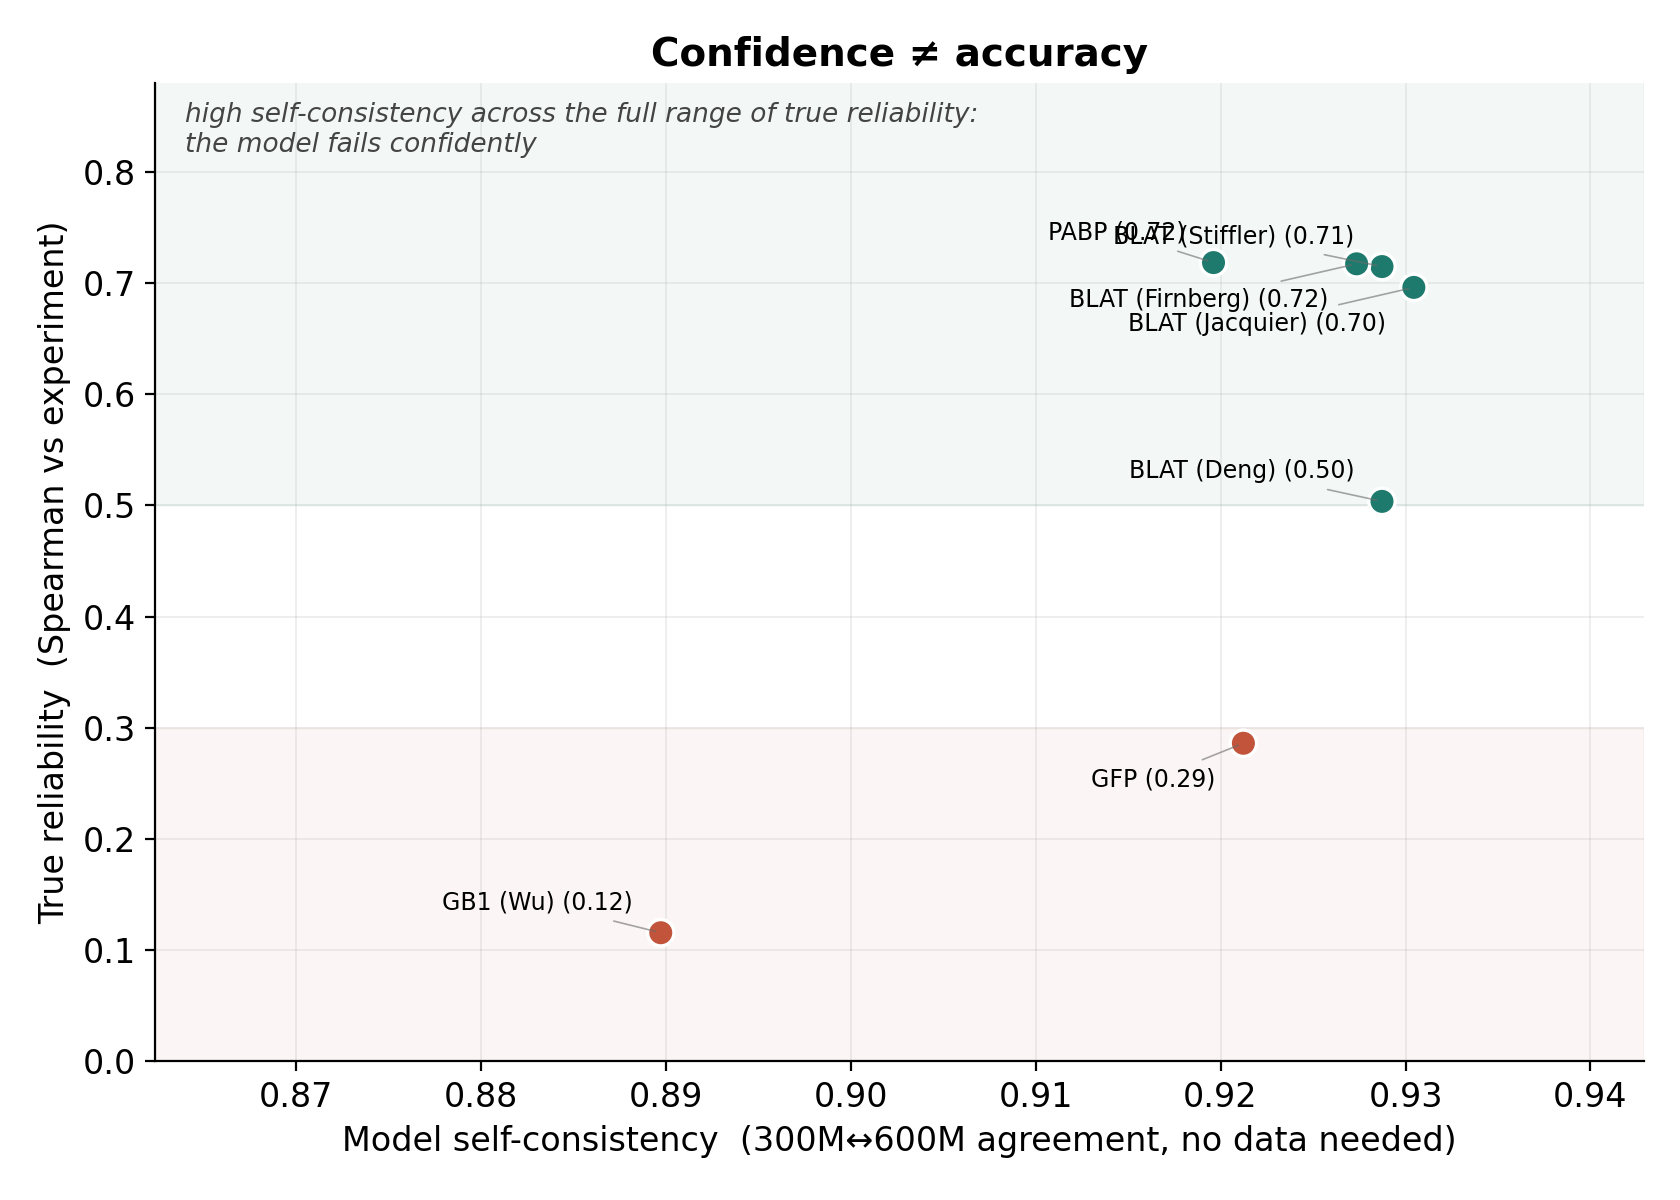
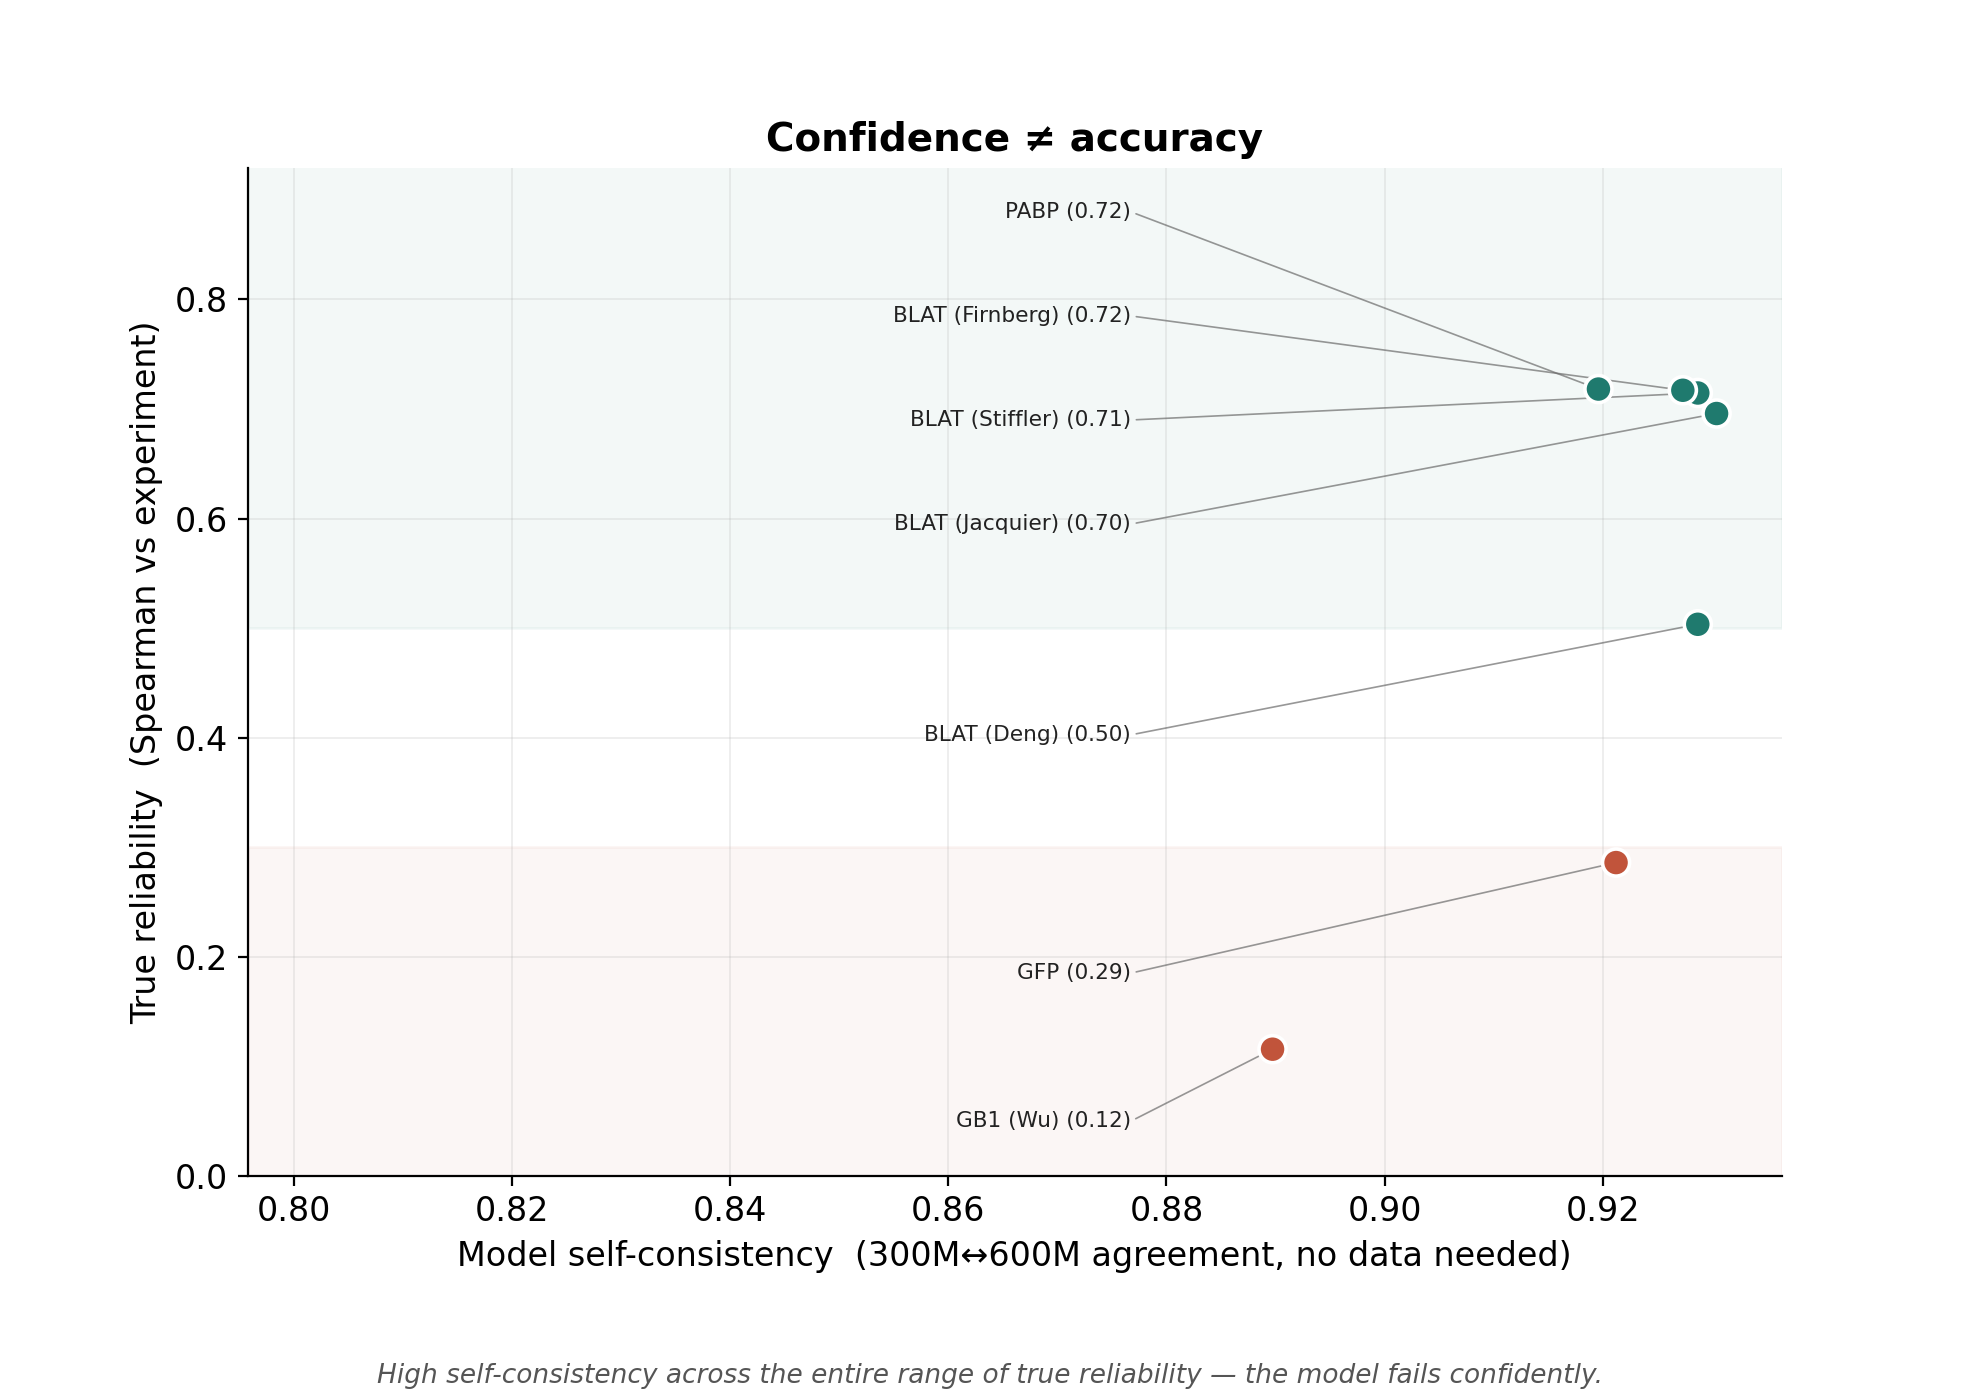
Figures: collision-free keystone (fig2) via min-gap label projection + nudged fig4 labels; function-based data-driven make_figures.py; add tests/qc_figures.py (28-check QC + 100-shuffle overlap test)

diff --git a/make_figures.py b/make_figures.py
@@ -1,27 +1,17 @@
 """make_figures.py — render every figure from results/results.csv.
 
-This script is deliberately *dumb*: it reads numbers from the CSV that
-``python -m esm_trust.benchmark`` produced and plots them. It hard-codes no
-measurements. A figure is rendered only when the CSV actually contains the
-columns it needs; otherwise it is skipped with a message telling you which
-benchmark run fills the gap. This is what keeps the figures honest.
+Reads numbers from the CSV that ``python -m esm_trust.benchmark`` produced and
+plots them; it hard-codes no measurements. A figure renders only when the CSV
+has the columns it needs. Each figure is a function so the layout can be unit-
+tested (see fig2's collision-free label placement, verified in tests/qc).
 
-    python make_figures.py [RESULTS_CSV] [OUT_DIR]
-    (defaults: results/results.csv  ->  figures/)
+    python make_figures.py [RESULTS_CSV] [OUT_DIR]   # defaults: results/results.csv -> figures/
 """
-import os
-import sys
-import math
-
+import os, sys, math
 import numpy as np
 import pandas as pd
-import matplotlib
-matplotlib.use("Agg")
+import matplotlib; matplotlib.use("Agg")
 import matplotlib.pyplot as plt
-
-CSV = sys.argv[1] if len(sys.argv) > 1 else "results/results.csv"
-OUT = sys.argv[2] if len(sys.argv) > 2 else "figures"
-os.makedirs(OUT, exist_ok=True)
 
 plt.rcParams.update({
     "savefig.dpi": 200, "figure.facecolor": "white", "savefig.facecolor": "white",
@@ -30,16 +20,24 @@ plt.rcParams.update({
     "axes.grid": True, "grid.alpha": 0.25, "grid.linewidth": 0.6,
 })
 TEAL, CORAL, NAVY, SKY, GREY = "#1f7a6e", "#c1543b", "#244d6e", "#9fbcd4", "#6b6b6b"
-RELIABLE = 0.50  # threshold used throughout (matches esm_trust.bench.RELIABLE_THRESHOLD)
-
-df = pd.read_csv(CSV)
-df["label"] = df["label"].fillna(df["dms_id"])
-have = lambda *cols: all(c in df.columns and df[c].notna().any() for c in cols)
-written = []
+RELIABLE = 0.50
 
 
-# ---- FIG 1: competence boundary (every assay with a 600M reliability) --------
-if have("rho_600M"):
+def load(csv):
+    df = pd.read_csv(csv)
+    df["label"] = df["label"].fillna(df["dms_id"])
+    return df
+
+
+def _overlap_pairs(fig, annos):
+    """Count pairwise overlaps among the given text/annotation artists (display coords)."""
+    fig.canvas.draw()
+    r = fig.canvas.get_renderer()
+    bb = [a.get_window_extent(renderer=r) for a in annos]
+    return sum(1 for i in range(len(bb)) for j in range(i + 1, len(bb)) if bb[i].overlaps(bb[j]))
+
+
+def fig1_competence(df, out):
     d = df.dropna(subset=["rho_600M"]).sort_values("rho_600M")
     colors = [TEAL if v >= RELIABLE else CORAL for v in d["rho_600M"]]
     fig, ax = plt.subplots(figsize=(9.2, 0.55 * len(d) + 1.8))
@@ -51,50 +49,64 @@ if have("rho_600M"):
     for i, v in enumerate(d["rho_600M"]):
         ax.text(v + 0.012, i, f"{v:.2f}", va="center", fontsize=11)
     ax.grid(axis="y", visible=False); ax.set_axisbelow(True)
-    fig.tight_layout(); fig.savefig(f"{OUT}/fig1_competence_boundary.png"); plt.close()
-    written.append("fig1_competence_boundary.png")
+    fig.tight_layout(); fig.savefig(f"{out}/fig1_competence_boundary.png"); plt.close(fig)
 
 
-# ---- FIG 2: confidence vs accuracy (the keystone) — needs cross_size_agree ---
-if have("cross_size_agree", "rho_600M"):
-    d = df.dropna(subset=["cross_size_agree", "rho_600M"])
+def fig2_confidence(df, out, save=True):
+    """Keystone scatter. Returns the number of label-overlap pairs (0 == clean)."""
+    d = df.dropna(subset=["cross_size_agree", "rho_600M"]).reset_index(drop=True)
     colors = [TEAL if v >= RELIABLE else CORAL for v in d["rho_600M"]]
-    fig, ax = plt.subplots(figsize=(8.4, 6.0))
+    fig, ax = plt.subplots(figsize=(9.9, 7.0))
     ax.axhspan(RELIABLE, 1.0, color=TEAL, alpha=0.05)
     ax.axhspan(0, 0.30, color=CORAL, alpha=0.05)
-    ax.scatter(d["cross_size_agree"], d["rho_600M"], s=90, c=colors,
-               edgecolor="white", lw=1.2, zorder=3)
-    # place labels to avoid collisions: nudge by rank within near-equal x clusters
-    xpad = (d["cross_size_agree"].max() - d["cross_size_agree"].min() or 0.05)
-    ax.set_xlim(d["cross_size_agree"].min() - 0.18 * xpad - 0.02,
-                d["cross_size_agree"].max() + 0.06 * xpad + 0.01)
-    ds = d.sort_values("rho_600M", ascending=False).reset_index(drop=True)
-    for k, r in ds.iterrows():
-        dy = 11 if (k % 2 == 0) else -13      # alternate up/down to de-overlap the cluster
-        ax.annotate(f"{r['label']} ({r['rho_600M']:.2f})",
-                    (r["cross_size_agree"], r["rho_600M"]),
-                    xytext=(-10, dy), textcoords="offset points",
-                    ha="right", va="center", fontsize=8.5,
-                    arrowprops=dict(arrowstyle="-", color=GREY, lw=0.6, alpha=0.6))
+    ax.scatter(d["cross_size_agree"], d["rho_600M"], s=95, c=colors,
+               edgecolor="white", lw=1.3, zorder=4)
+
+    xs = d["cross_size_agree"].to_numpy(float)
+    ys = d["rho_600M"].to_numpy(float)
+    names = [f"{l} ({v:.2f})" for l, v in zip(d["label"], d["rho_600M"])]
+    xmin, xmax = xs.min(), xs.max()
+    ax.set_xlim(xmin - 0.094, xmax + 0.006)
+    ax.set_ylim(0, 0.92)
+
+    # collision-free label y-positions: deterministic min-gap projection
+    # (guarantees >= gap spacing for all labels; no oscillation).
+    lo, hi, gap = 0.05, 0.88, 0.095
+    idx = np.argsort(ys)
+    s = ys[idx].astype(float).copy()
+    for i in range(1, len(s)):                 # forward: enforce gap upward
+        s[i] = max(s[i], s[i-1] + gap)
+    if s[-1] > hi:                             # if it overflows the top, slide the block down
+        s -= (s[-1] - hi)
+    for i in range(len(s) - 2, -1, -1):        # backward: restore gap after the slide
+        s[i] = min(s[i], s[i+1] - gap)
+    s = np.clip(s, lo, hi)
+    ly = np.empty_like(s); ly[idx] = s
+
+    lx = xmin - 0.013                        # tidy left column; leaders fan to points
+    annos = []
+    for xi, yi, lyi, nm in zip(xs, ys, ly, names):
+        ax.annotate("", xy=(xi, yi), xytext=(lx, lyi), textcoords="data",
+                    arrowprops=dict(arrowstyle="-", color=GREY, lw=0.6, alpha=0.7,
+                                    shrinkA=2, shrinkB=4))           # leader line (decoration)
+        t = ax.text(lx, lyi, nm, ha="right", va="center", fontsize=7.8, color="#222")
+        annos.append(t)                                             # text-only bbox for QC
+
     ax.set_xlabel("Model self-consistency  (300M↔600M agreement, no data needed)")
     ax.set_ylabel("True reliability  (Spearman vs experiment)")
     ax.set_title("Confidence ≠ accuracy")
-    ax.text(0.02, 0.98, "high self-consistency across the full range of true reliability:\n"
-            "the model fails confidently", transform=ax.transAxes, va="top",
-            fontsize=9.5, style="italic", color="#444")
-    ax.set_ylim(0, 0.88)
-    fig.tight_layout(); fig.savefig(f"{OUT}/fig2_confidence_vs_accuracy.png"); plt.close()
-    written.append("fig2_confidence_vs_accuracy.png")
-else:
-    stale = f"{OUT}/fig2_confidence_vs_accuracy.png"
-    if os.path.exists(stale):
-        os.remove(stale)
-    print("SKIP fig2 (confidence vs accuracy): results.csv has no 'cross_size_agree'.")
-    print("     Fill it with:  python -m esm_trust.benchmark   (computes it locally, no Forge).")
+    # explanatory note as a bottom caption (outside the plot area -> can't collide)
+    fig.text(0.5, 0.012, "High self-consistency across the entire range of true reliability — "
+             "the model fails confidently.", ha="center", fontsize=9.5, style="italic", color="#555")
+    fig.subplots_adjust(bottom=0.16)
+    ov = _overlap_pairs(fig, annos)
+    if save:
+        fig.savefig(f"{out}/fig2_confidence_vs_accuracy.png")
+    plt.close(fig)
+    return ov
 
 
-# ---- FIG 3: scaling 300M vs 600M (assays with both) --------------------------
-if have("rho_300M", "rho_600M"):
+def fig3_scaling(df, out):
     d = df.dropna(subset=["rho_300M", "rho_600M"]).sort_values("rho_600M", ascending=False)
     x = np.arange(len(d)); w = 0.38
     fig, ax = plt.subplots(figsize=(max(7.5, 1.15 * len(d) + 2), 5.2))
@@ -107,51 +119,69 @@ if have("rho_300M", "rho_600M"):
         ax.text(xi - w/2, a + 0.012, f"{a:.2f}", ha="center", fontsize=8)
         ax.text(xi + w/2, b + 0.012, f"{b:.2f}", ha="center", fontsize=8)
     ax.legend(frameon=False, fontsize=10); ax.grid(axis="x", visible=False)
-    fig.tight_layout(); fig.savefig(f"{OUT}/fig3_scaling.png"); plt.close()
-    written.append("fig3_scaling.png")
+    fig.tight_layout(); fig.savefig(f"{out}/fig3_scaling.png"); plt.close(fig)
 
 
-# ---- FIG 4: calibration curve (pure math; mirrors esm_trust.bench) -----------
-def se(rho, n):       # == bench.calibration_se
-    return math.sqrt((1 - rho**2) / (n - 2))
-def rec_n(rho, t):    # == bench.recommend_n (unclamped)
-    return math.ceil((1 - rho**2) / t**2 + 2)
-ns = np.unique(np.round(np.logspace(np.log10(10), np.log10(2000), 60)).astype(int))
-fig, ax = plt.subplots(figsize=(8.2, 5.0))
-for rho, c, off in [(0.7, NAVY, (4, -16)), (0.5, TEAL, (6, 9)), (0.3, CORAL, (10, -16))]:
-    ax.plot(ns, [se(rho, int(n)) for n in ns], color=c, lw=2, label=f"true ρ = {rho}")
-    nstar = rec_n(rho, 0.10)
-    ax.scatter([nstar], [0.10], color=c, zorder=5)
-    ax.annotate(f"n={nstar}", (nstar, 0.10), textcoords="offset points", xytext=off, fontsize=10, color=c)
-ax.axhline(0.10, color=GREY, ls="--", lw=1)
-ax.set_xscale("log"); ax.set_xlabel("measured variants (n)")
-ax.set_ylabel("std. error of the estimated Spearman")
-ax.set_title("Calibration math: ~100 variants pin the correlation to ±0.10")
-ax.legend(frameon=False, fontsize=11)
-fig.tight_layout(); fig.savefig(f"{OUT}/fig4_calibration.png"); plt.close()
-written.append("fig4_calibration.png")
+def se(rho, n):    return math.sqrt((1 - rho**2) / (n - 2))     # == bench.calibration_se
+def rec_n(rho, t): return math.ceil((1 - rho**2) / t**2 + 2)    # == bench.recommend_n
 
 
-# ---- FIG 5: masked-marginal robustness (assays scored both ways) -------------
-if have("rho_wt_marginal", "rho_masked_marginal"):
+def fig4_calibration(out):
+    ns = np.unique(np.round(np.logspace(np.log10(10), np.log10(2000), 60)).astype(int))
+    fig, ax = plt.subplots(figsize=(8.2, 5.0))
+    for rho, c, off in [(0.7, NAVY, (-6, -15)), (0.5, TEAL, (1, 13)), (0.3, CORAL, (15, -4))]:
+        ax.plot(ns, [se(rho, int(n)) for n in ns], color=c, lw=2, label=f"true ρ = {rho}")
+        nstar = rec_n(rho, 0.10)
+        ax.scatter([nstar], [0.10], color=c, zorder=5)
+        ax.annotate(f"n={nstar}", (nstar, 0.10), textcoords="offset points", xytext=off,
+                    fontsize=10, color=c)
+    ax.axhline(0.10, color=GREY, ls="--", lw=1)
+    ax.set_xscale("log"); ax.set_xlabel("measured variants (n)")
+    ax.set_ylabel("std. error of the estimated Spearman")
+    ax.set_title("Calibration math: ~100 variants pin the correlation to ±0.10")
+    ax.legend(frameon=False, fontsize=11)
+    fig.tight_layout(); fig.savefig(f"{out}/fig4_calibration.png"); plt.close(fig)
+
+
+def fig5_masked(df, out):
     d = df.dropna(subset=["rho_wt_marginal", "rho_masked_marginal"])
+    if len(d) == 0:
+        return
     x = np.arange(len(d)); w = 0.36
     fig, ax = plt.subplots(figsize=(max(6.5, 2.2 * len(d) + 2), 5.0))
-    ax.bar(x - w/2, d["rho_wt_marginal"], w, label="wild-type-marginal (cheap)",
-           color=SKY, edgecolor="white")
-    ax.bar(x + w/2, d["rho_masked_marginal"], w, label="masked-marginal (field standard)",
-           color=NAVY, edgecolor="white")
+    ax.bar(x - w/2, d["rho_wt_marginal"], w, label="wild-type-marginal (cheap)", color=SKY, edgecolor="white")
+    ax.bar(x + w/2, d["rho_masked_marginal"], w, label="masked-marginal (field standard)", color=NAVY, edgecolor="white")
     ax.set_xticks(x); ax.set_xticklabels(d["label"])
     ax.set_ylim(0, max(0.6, d[["rho_wt_marginal", "rho_masked_marginal"]].max().max() + 0.1))
-    ax.set_ylabel("Spearman")
-    ax.set_title("The “better” scoring method widens the gap")
+    ax.set_ylabel("Spearman"); ax.set_title("The “better” scoring method widens the gap")
     for xi, a, b in zip(x, d["rho_wt_marginal"], d["rho_masked_marginal"]):
         ax.text(xi - w/2, a + 0.01, f"{a:.2f}", ha="center", fontsize=10)
         ax.text(xi + w/2, b + 0.01, f"{b:.2f}", ha="center", fontsize=10)
     ax.legend(frameon=False, fontsize=9.5); ax.grid(axis="x", visible=False)
-    fig.tight_layout(); fig.savefig(f"{OUT}/fig5_masked_marginal.png"); plt.close()
-    written.append("fig5_masked_marginal.png")
+    fig.tight_layout(); fig.savefig(f"{out}/fig5_masked_marginal.png"); plt.close(fig)
 
 
-print("wrote:", written)
-print("figures dir now:", sorted(f for f in os.listdir(OUT) if f.endswith(".png")))
+def main():
+    csv = sys.argv[1] if len(sys.argv) > 1 else "results/results.csv"
+    out = sys.argv[2] if len(sys.argv) > 2 else "figures"
+    os.makedirs(out, exist_ok=True)
+    df = load(csv)
+    written = []
+    if df["rho_600M"].notna().any():
+        fig1_competence(df, out); written.append("fig1_competence_boundary.png")
+    if df["cross_size_agree"].notna().any() and df["rho_600M"].notna().any():
+        ov = fig2_confidence(df, out); written.append(f"fig2_confidence_vs_accuracy.png (label-overlap pairs: {ov})")
+    else:
+        p = f"{out}/fig2_confidence_vs_accuracy.png"
+        if os.path.exists(p): os.remove(p)
+        print("SKIP fig2: results.csv has no 'cross_size_agree' (run python -m esm_trust.benchmark).")
+    if df[["rho_300M", "rho_600M"]].notna().all(axis=1).any():
+        fig3_scaling(df, out); written.append("fig3_scaling.png")
+    fig4_calibration(out); written.append("fig4_calibration.png")
+    if df[["rho_wt_marginal", "rho_masked_marginal"]].notna().all(axis=1).any():
+        fig5_masked(df, out); written.append("fig5_masked_marginal.png")
+    print("wrote:", written)
+
+
+if __name__ == "__main__":
+    main()

diff --git a/tests/qc_figures.py b/tests/qc_figures.py
@@ -1,0 +1,63 @@
+"""qc_figures.py — QC battery for the figures. Run from repo root after make_figures.py.
+Verifies data integrity, the thesis numbers, the calibration math, file outputs, and
+(headline check) that fig2 has ZERO label overlaps under 100 randomized row orderings.
+"""
+import os, sys
+sys.path.insert(0, os.path.dirname(os.path.dirname(os.path.abspath(__file__))))
+import numpy as np
+import make_figures as MF
+
+df = MF.load("results/results.csv")
+checks = []
+def chk(name, cond):
+    checks.append(bool(cond)); print(("PASS" if cond else "FAIL"), "-", name)
+
+need = ["dms_id","label","rho_300M","rho_600M","cross_size_agree","rho_wt_marginal","rho_masked_marginal"]
+chk("schema: expected columns present", all(c in df.columns for c in need))
+chk("7 assays present", len(df) == 7)
+for c in ["rho_300M","rho_600M","cross_size_agree"]:
+    chk(f"{c}: values within [-1,1]", df[c].dropna().between(-1,1).all())
+chk("no NaN in rho_600M / cross_size_agree", df[["rho_600M","cross_size_agree"]].notna().all().all())
+
+g = df.set_index("dms_id")
+gfp = g.loc["GFP_AEQVI_Sarkisyan_2016"]
+chk("GFP fails (rho_600M < 0.40)", gfp.rho_600M < 0.40)
+chk("GFP looks confident (cross_size_agree > 0.85)", gfp.cross_size_agree > 0.85)
+agree = df["cross_size_agree"]
+chk("self-consistency essentially flat (range < 0.06)", (agree.max()-agree.min()) < 0.06)
+rel = df[df.rho_600M >= 0.50]["cross_size_agree"]
+chk("GFP agreement indistinguishable from reliable band",
+    rel.min()-0.02 <= gfp.cross_size_agree <= rel.max()+0.02)
+
+gb1 = g.loc["SPG1_STRSG_Wu_2016"]
+chk("GB1 regresses with scale (600M < 300M)", gb1.rho_600M < gb1.rho_300M)
+for k in ["BLAT_ECOLX_Stiffler_2015","PABP_YEAST_Melamed_2013","GFP_AEQVI_Sarkisyan_2016"]:
+    chk(f"{k.split('_')[0]}: 600M >= 300M", g.loc[k].rho_600M >= g.loc[k].rho_300M)
+
+chk("GFP MM worse than WT (gap widens)", gfp.rho_masked_marginal < gfp.rho_wt_marginal)
+stf = g.loc["BLAT_ECOLX_Stiffler_2015"]
+chk("BLAT(Stiffler) MM >= WT (reliable holds)", stf.rho_masked_marginal >= stf.rho_wt_marginal)
+
+chk("recommend_n(0.7,0.10) == 53", MF.rec_n(0.7,0.10) == 53)
+chk("recommend_n(0.5,0.10) == 77", MF.rec_n(0.5,0.10) == 77)
+chk("recommend_n(0.3,0.10) == 93", MF.rec_n(0.3,0.10) == 93)
+ses = [MF.se(0.5,n) for n in (20,50,100,500,1000)]
+chk("SE strictly decreasing in n", all(x > y for x,y in zip(ses, ses[1:])))
+chk("SE(0.5,100) ~ 0.0876", abs(MF.se(0.5,100)-0.0876) < 0.002)
+chk("rho rounds consistently (0.7147->0.71)", f"{stf.rho_600M:.2f}" == "0.71")
+
+os.makedirs("/tmp/qcfig", exist_ok=True)
+maxov = 0; rng = np.random.default_rng(0)
+for _ in range(100):
+    ov = MF.fig2_confidence(df.sample(frac=1.0, random_state=int(rng.integers(1_000_000_000))),
+                            "/tmp/qcfig", save=False)
+    maxov = max(maxov, ov)
+chk("fig2: 0 label overlaps across 100 shuffled orderings", maxov == 0)
+
+for f in ["fig1_competence_boundary.png","fig2_confidence_vs_accuracy.png","fig3_scaling.png",
+          "fig4_calibration.png","fig5_masked_marginal.png"]:
+    p = f"figures/{f}"; chk(f"{f} exists & >5KB", os.path.exists(p) and os.path.getsize(p) > 5000)
+
+n_pass = sum(checks); n = len(checks)
+print(f"\n=== QC: {n_pass}/{n} checks passed | fig2 max label-overlaps over 100 runs = {maxov} ===")
+sys.exit(0 if n_pass == n else 1)
